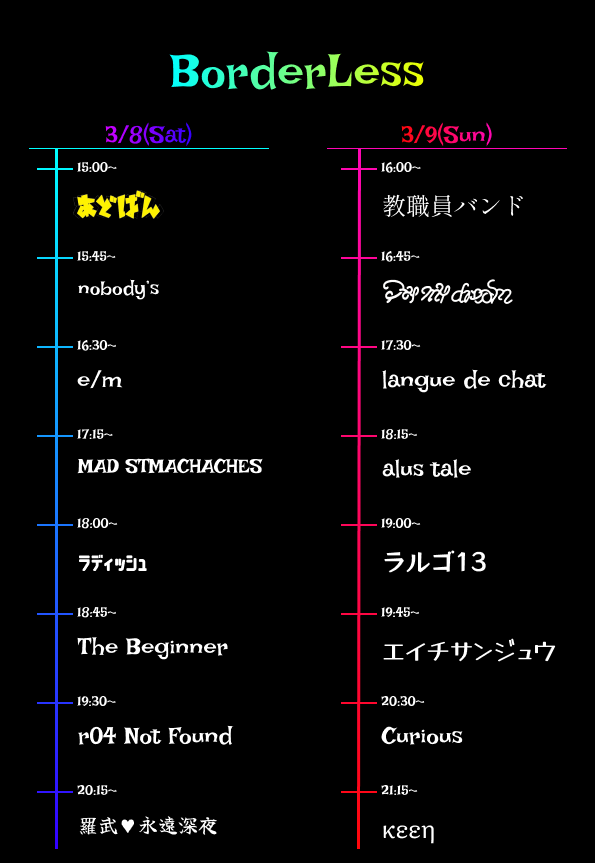
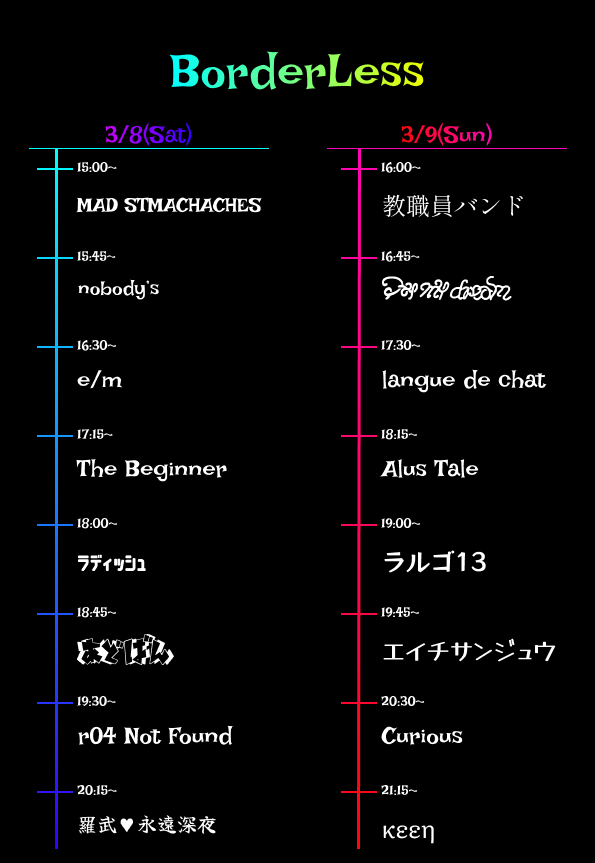
refactor: Update timetable image source to PNG and comment out SVG reference in styles

diff --git a/app/component/Timetable/Timetable.tsx b/app/component/Timetable/Timetable.tsx
@@ -34,7 +34,7 @@ export function Timetable(): ReactNode {
                 {/*
                 <div className={styles.textEng}>coming soon ...</div>
                 */}
-                <img className={styles.image}></img>
+                <img src="/images/timetable.png" className={styles.image}></img>
             </div>
         </div>
     );

diff --git a/app/component/Timetable/styles.css.ts b/app/component/Timetable/styles.css.ts
@@ -95,7 +95,7 @@ export const subTitle9 = style({
 });
 
 export const image = style({
-    content: "url('/images/timetable.svg')",
+    //content: "url('/images/timetable.svg')",
     width: "100%",
     height: "auto",
 });
